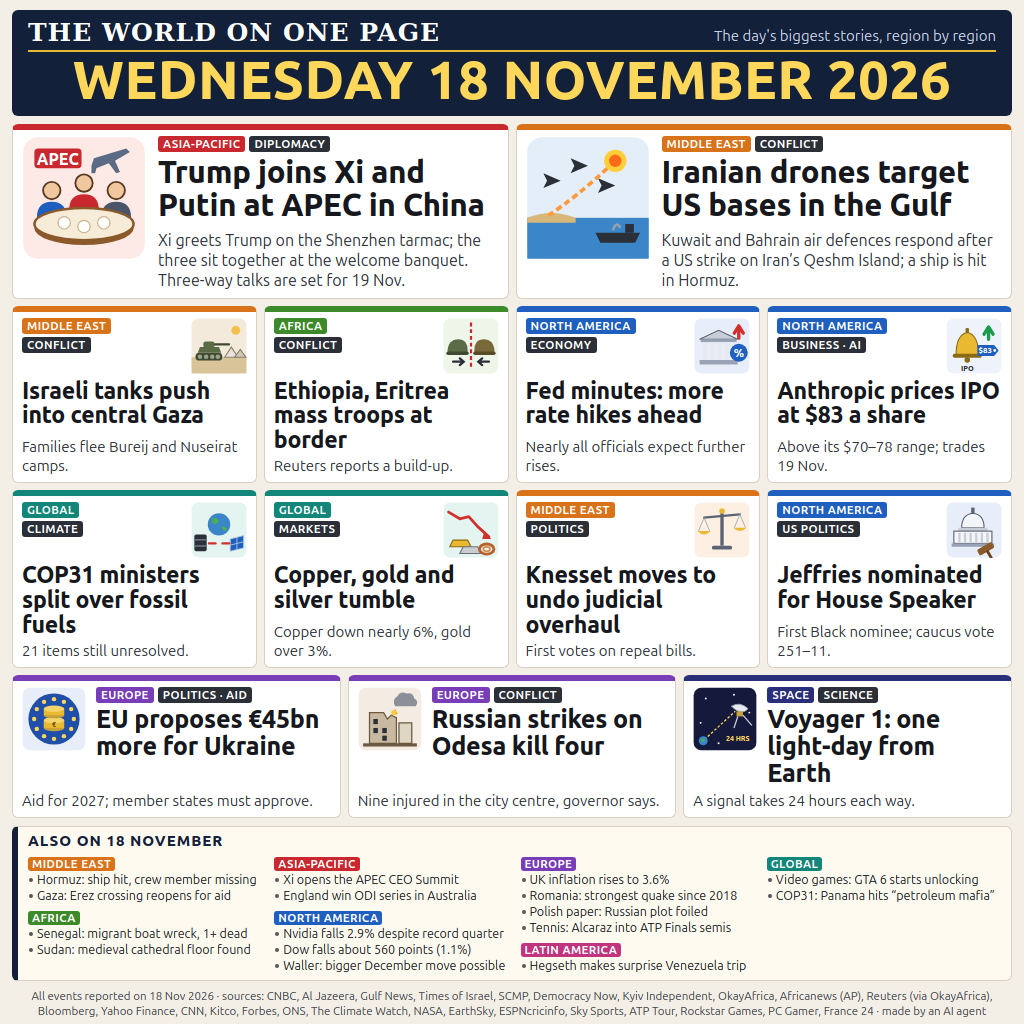
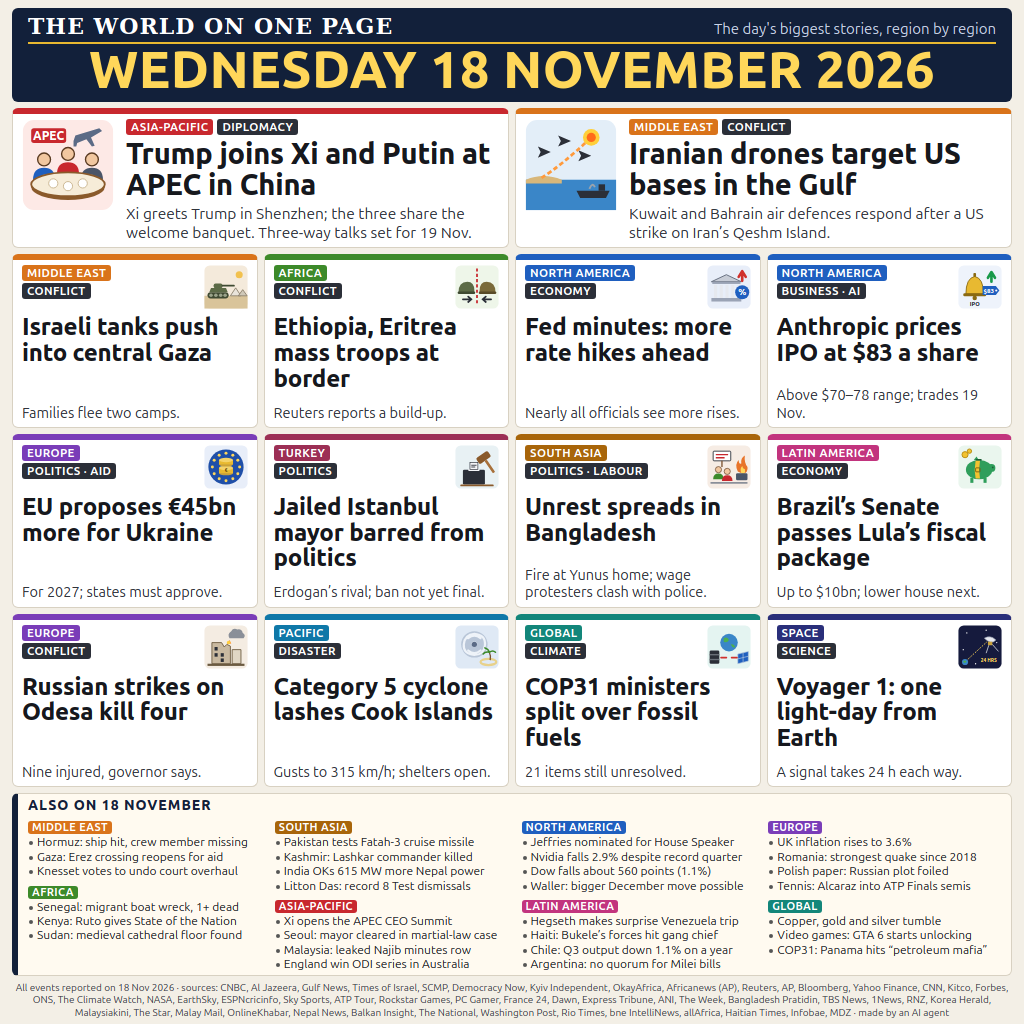
v2: 14 cards (Turkey, South Asia, Latin America, Pacific added), 29-item Also band from stories D/E

diff --git a/page/stories.js b/page/stories.js
@@ -1,7 +1,10 @@
 // Every line below is written from the operator's story files for 18 Nov 2026 (briefs/news18/stories_*.md).
 const REGION = {
   asia:   { name: 'ASIA-PACIFIC',  c: '#c8282e' },
+  sasia:  { name: 'SOUTH ASIA',    c: '#a8650a' },
+  pacific:{ name: 'PACIFIC',       c: '#0f78a8' },
   mideast:{ name: 'MIDDLE EAST',   c: '#d9731a' },
+  turkey: { name: 'TURKEY',        c: '#9c2f55' },
   namer:  { name: 'NORTH AMERICA', c: '#1f5fbf' },
   europe: { name: 'EUROPE',        c: '#7a3db8' },
   global: { name: 'GLOBAL',        c: '#13867a' },
@@ -13,62 +16,82 @@ const REGION = {
 const CARDS = [
   { lead: true, r: 'asia', f: 'DIPLOMACY', icon: 'summit',
     hl: 'Trump joins Xi and Putin at APEC in China',
-    fact: 'Xi greets Trump on the Shenzhen tarmac; the three sit together at the welcome banquet. Three-way talks are set for 19 Nov.' },
+    fact: 'Xi greets Trump in Shenzhen; the three share the welcome banquet. Three-way talks set for 19 Nov.' },
   { lead: true, r: 'mideast', f: 'CONFLICT', icon: 'drones',
     hl: 'Iranian drones target US bases in the Gulf',
-    fact: 'Kuwait and Bahrain air defences respond after a US strike on Iran\u2019s Qeshm Island; a ship is hit in Hormuz.' },
+    fact: 'Kuwait and Bahrain air defences respond after a US strike on Iran’s Qeshm Island.' },
   { r: 'mideast', f: 'CONFLICT', icon: 'tank',
     hl: 'Israeli tanks push into central Gaza',
-    fact: 'Families flee Bureij and Nuseirat camps.' },
+    fact: 'Families flee two camps.' },
   { r: 'africa', f: 'CONFLICT', icon: 'border',
     hl: 'Ethiopia, Eritrea mass troops at border',
     fact: 'Reuters reports a build-up.' },
   { r: 'namer', f: 'ECONOMY', icon: 'fed',
     hl: 'Fed minutes: more rate hikes ahead',
-    fact: 'Nearly all officials expect further rises.' },
+    fact: 'Nearly all officials see more rises.' },
   { r: 'namer', f: 'BUSINESS · AI', icon: 'ipo',
     hl: 'Anthropic prices IPO at $83 a share',
-    fact: 'Above its $70–78 range; trades 19 Nov.' },
+    fact: 'Above $70–78 range; trades 19 Nov.' },
+  { r: 'europe', f: 'POLITICS · AID', icon: 'euaid',
+    hl: 'EU proposes €45bn more for Ukraine',
+    fact: 'For 2027; states must approve.' },
+  { r: 'turkey', f: 'POLITICS', icon: 'gavel',
+    hl: 'Jailed Istanbul mayor barred from politics',
+    fact: 'Erdogan’s rival; ban not yet final.' },
+  { r: 'sasia', f: 'POLITICS · LABOUR', icon: 'protest',
+    hl: 'Unrest spreads in Bangladesh',
+    fact: 'Fire at Yunus home; wage protesters clash with police.' },
+  { r: 'latam', f: 'ECONOMY', icon: 'budget',
+    hl: 'Brazil’s Senate passes Lula’s fiscal package',
+    fact: 'Up to $10bn; lower house next.' },
+  { r: 'europe', f: 'CONFLICT', icon: 'strike',
+    hl: 'Russian strikes on Odesa kill four',
+    fact: 'Nine injured, governor says.' },
+  { r: 'pacific', f: 'DISASTER', icon: 'cyclone',
+    hl: 'Category 5 cyclone lashes Cook Islands',
+    fact: 'Gusts to 315 km/h; shelters open.' },
   { r: 'global', f: 'CLIMATE', icon: 'cop',
     hl: 'COP31 ministers split over fossil fuels',
     fact: '21 items still unresolved.' },
-  { r: 'global', f: 'MARKETS', icon: 'metals',
-    hl: 'Copper, gold and silver tumble',
-    fact: 'Copper down nearly 6%, gold over 3%.' },
-  { r: 'mideast', f: 'POLITICS', icon: 'scales',
-    hl: 'Knesset moves to undo judicial overhaul',
-    fact: 'First votes on repeal bills.' },
-  { r: 'namer', f: 'US POLITICS', icon: 'capitol',
-    hl: 'Jeffries nominated for House Speaker',
-    fact: 'First Black nominee; caucus vote 251–11.' },
-  { r: 'europe', f: 'POLITICS \u00b7 AID', icon: 'euaid', wide: true,
-    hl: 'EU proposes \u20ac45bn more for Ukraine',
-    fact: 'Aid for 2027; member states must approve.' },
-  { r: 'europe', f: 'CONFLICT', icon: 'strike', wide: true,
-    hl: 'Russian strikes on Odesa kill four',
-    fact: 'Nine injured in the city centre, governor says.' },
-  { r: 'space', f: 'SCIENCE', icon: 'voyager', wide: true,
+  { r: 'space', f: 'SCIENCE', icon: 'voyager',
     hl: 'Voyager 1: one light-day from Earth',
-    fact: 'A signal takes 24 hours each way.' },
+    fact: 'A signal takes 24 h each way.' },
 ];
 
 const ALSO = [
   { r: 'mideast', items: [
     'Hormuz: ship hit, crew member missing',
     'Gaza: Erez crossing reopens for aid',
+    'Knesset votes to undo court overhaul',
   ]},
   { r: 'africa', items: [
     'Senegal: migrant boat wreck, 1+ dead',
+    'Kenya: Ruto gives State of the Nation',
     'Sudan: medieval cathedral floor found',
+  ]},
+  { r: 'sasia', items: [
+    'Pakistan tests Fatah-3 cruise missile',
+    'Kashmir: Lashkar commander killed',
+    'India OKs 615 MW more Nepal power',
+    'Litton Das: record 8 Test dismissals',
   ]},
   { r: 'asia', items: [
     'Xi opens the APEC CEO Summit',
+    'Seoul: mayor cleared in martial-law case',
+    'Malaysia: leaked Najib minutes row',
     'England win ODI series in Australia',
   ]},
   { r: 'namer', items: [
+    'Jeffries nominated for House Speaker',
     'Nvidia falls 2.9% despite record quarter',
     'Dow falls about 560 points (1.1%)',
     'Waller: bigger December move possible',
+  ]},
+  { r: 'latam', items: [
+    'Hegseth makes surprise Venezuela trip',
+    'Haiti: Bukele’s forces hit gang chief',
+    'Chile: Q3 output down 1.1% on a year',
+    'Argentina: no quorum for Milei bills',
   ]},
   { r: 'europe', items: [
     'UK inflation rises to 3.6%',
@@ -76,13 +99,11 @@ const ALSO = [
     'Polish paper: Russian plot foiled',
     'Tennis: Alcaraz into ATP Finals semis',
   ]},
-  { r: 'latam', items: [
-    'Hegseth makes surprise Venezuela trip',
-  ]},
   { r: 'global', items: [
+    'Copper, gold and silver tumble',
     'Video games: GTA 6 starts unlocking',
-    'COP31: Panama hits \u201cpetroleum mafia\u201d',
+    'COP31: Panama hits “petroleum mafia”',
   ]},
 ];
 
-const SOURCES = 'CNBC, Al Jazeera, Gulf News, Times of Israel, SCMP, Democracy Now, Kyiv Independent, OkayAfrica, Africanews (AP), Reuters (via OkayAfrica), Bloomberg, Yahoo Finance, CNN, Kitco, Forbes, ONS, The Climate Watch, NASA, EarthSky, ESPNcricinfo, Sky Sports, ATP Tour, Rockstar Games, PC Gamer, France 24';
+const SOURCES = 'CNBC, Al Jazeera, Gulf News, Times of Israel, SCMP, Democracy Now, Kyiv Independent, OkayAfrica, Africanews (AP), Reuters, AP, Bloomberg, Yahoo Finance, CNN, Kitco, Forbes, ONS, The Climate Watch, NASA, EarthSky, ESPNcricinfo, Sky Sports, ATP Tour, Rockstar Games, PC Gamer, France 24, Dawn, Express Tribune, ANI, The Week, Bangladesh Pratidin, TBS News, 1News, RNZ, Korea Herald, Malaysiakini, The Star, Malay Mail, OnlineKhabar, Nepal News, Balkan Insight, The National, Washington Post, Rio Times, bne IntelliNews, allAfrica, Haitian Times, Infobae, MDZ';

diff --git a/page/style.css b/page/style.css
@@ -5,27 +5,27 @@ body {
   color: #16181d;
   font-family: "Ubuntu Sans", "DejaVu Sans", sans-serif;
 }
-#sheet { width: 1024px; height: 1024px; display: flex; flex-direction: column; padding: 10px 12px 6px; gap: 8px; }
+#sheet { width: 1024px; height: 1024px; display: flex; flex-direction: column; padding: 8px 12px 5px; gap: 6px; }
 
 /* masthead */
-#mast { background: #12203a; color: #fff; border-radius: 6px; padding: 8px 16px 6px; }
+#mast { background: #12203a; color: #fff; border-radius: 6px; padding: 5px 16px 4px; }
 .mast-top { display: flex; justify-content: space-between; align-items: baseline; border-bottom: 2px solid #e8b931; padding-bottom: 3px; }
-.brand { font-family: "DejaVu Serif", serif; font-weight: 700; font-size: 25px; letter-spacing: 1px; }
+.brand { font-family: "DejaVu Serif", serif; font-weight: 700; font-size: 22px; letter-spacing: 1px; }
 .mast-note { font-size: 15px; color: #c9d3e6; }
-.date { font-weight: 800; font-size: 54px; line-height: 1.08; letter-spacing: 0.5px; text-align: center; color: #ffd75a; white-space: nowrap; }
+.date { font-weight: 800; font-size: 52px; line-height: 1.04; letter-spacing: 0.5px; text-align: center; color: #ffd75a; white-space: nowrap; }
 
 /* cards */
-#cards { flex: 1; display: grid; grid-template-columns: repeat(12, 1fr); grid-template-rows: auto 1fr 1fr auto; gap: 7px; min-height: 0; }
-.card { background: #fff; border-radius: 6px; border: 1px solid #d8d1c2; border-top: 6px solid var(--c); padding: 6px 9px 7px; display: flex; flex-direction: column; overflow: hidden; }
+#cards { flex: 1; display: grid; grid-template-columns: repeat(12, 1fr); grid-template-rows: auto 1fr 1fr 1fr; gap: 6px; min-height: 0; }
+.card { background: #fff; border-radius: 6px; border: 1px solid #d8d1c2; border-top: 6px solid var(--c); padding: 5px 9px 5px; display: flex; flex-direction: column; overflow: hidden; }
 .card.lead { grid-column: span 6; flex-direction: row; gap: 12px; }
-.card.std { grid-column: span 3; display: grid; grid-template-columns: 1fr 56px; grid-template-rows: auto auto 1fr; column-gap: 6px; }
+.card.std { grid-column: span 3; display: grid; grid-template-columns: 1fr 44px; grid-template-rows: auto auto 1fr; column-gap: 6px; }
 .card.std.wide { grid-column: span 4; grid-template-columns: 64px 1fr; grid-template-rows: auto auto 1fr; column-gap: 10px; }
 .card .ic { flex: none; }
-.card.lead .ic svg { width: 124px; height: 124px; }
+.card.lead .ic svg { width: 92px; height: 92px; }
 .card.std .ic { grid-row: 1; grid-column: 2; }
-.card.std .ic svg { width: 56px; height: 56px; }
+.card.std .ic svg { width: 44px; height: 44px; }
 .card.std .tags { grid-column: 1; grid-row: 1; flex-direction: column; align-items: flex-start; }
-.card.std .tags .tag { margin-bottom: 3px; }
+.card.std .tags .tag { margin-bottom: 2px; }
 .card.std .hl { grid-column: 1 / 3; grid-row: 2; }
 .card.std .fact { grid-column: 1 / 3; grid-row: 3; }
 .card.std.wide .ic { grid-column: 1; grid-row: 1 / 3; }
@@ -37,20 +37,20 @@ body {
 .tag.f { background: #2b2f38; }
 .tags { display: flex; flex-wrap: wrap; gap: 0 4px; }
 .hl { font-weight: 800; line-height: 1.07; letter-spacing: -0.2px; }
-.card.lead .hl { font-size: 31px; margin-bottom: 4px; }
-.card.std .hl { font-size: 23px; margin-top: 1px; }
+.card.lead .hl { font-size: 29px; margin-bottom: 2px; }
+.card.std .hl { font-size: 24px; margin-top: 1px; }
 .card.std.wide .hl { font-size: 25px; }
-.fact { font-size: 15px; line-height: 1.25; color: #2f333b; margin-top: auto; padding-top: 4px; }
-.card.lead .fact { font-size: 16px; }
+.fact { font-size: 14.5px; line-height: 1.2; color: #2f333b; margin-top: auto; padding-top: 3px; }
+.card.lead .fact { font-size: 15.5px; padding-top: 2px; }
 .lead-body { display: flex; flex-direction: column; min-width: 0; }
 
 /* also band */
-#also { background: #fffaf0; border: 1px solid #d8d1c2; border-left: 6px solid #12203a; border-radius: 6px; padding: 5px 10px 6px; }
-.also-title { font-weight: 800; font-size: 15px; letter-spacing: 1px; color: #12203a; margin-bottom: 3px; }
-#also-cols { columns: 4; column-gap: 12px; }
-.grp { break-inside: avoid; margin-bottom: 3px; }
-.grp b { display: inline-block; font-size: 11.5px; color: #fff; background: var(--c); border-radius: 3px; padding: 0 4px; margin-bottom: 1px; letter-spacing: 0.4px; }
-.grp li { list-style: none; font-size: 12.5px; line-height: 1.28; padding-left: 9px; position: relative; }
+#also { background: #fffaf0; border: 1px solid #d8d1c2; border-left: 6px solid #12203a; border-radius: 6px; padding: 3px 10px 3px; }
+.also-title { font-weight: 800; font-size: 14px; letter-spacing: 1px; color: #12203a; margin-bottom: 2px; }
+#also-cols { columns: 4; column-gap: 14px; }
+.grp { break-inside: avoid; margin-bottom: 2px; }
+.grp b { display: inline-block; font-size: 11px; color: #fff; background: var(--c); border-radius: 3px; padding: 0 4px; margin-bottom: 1px; letter-spacing: 0.4px; }
+.grp li { list-style: none; font-size: 12px; line-height: 1.2; padding-left: 9px; position: relative; }
 .grp li::before { content: ""; position: absolute; left: 1px; top: 6px; width: 4px; height: 4px; background: #555; border-radius: 50%; }
 
-#foot { font-size: 11.5px; color: #3c4048; text-align: center; line-height: 1.25; }
+#foot { font-size: 10px; color: #3c4048; text-align: center; line-height: 1.25; }

diff --git a/page/icons.js b/page/icons.js
@@ -160,4 +160,49 @@ const ICONS = {
     <rect x="68" y="38" width="9" height="12" rx="2" fill="#2b2f38"/>
     ${UP(84, 18, '#d0312d')}
   `, '#f1eaf9'),
+  // a judge's gavel coming down on a ballot box
+  gavel: S(`
+    <rect x="18" y="56" width="50" height="34" rx="3" fill="#2b2f38"/>
+    <rect x="30" y="54" width="26" height="5" rx="2" fill="#f4f5f8"/>
+    <rect x="34" y="40" width="18" height="16" fill="#f4f5f8" stroke="#2b2f38" stroke-width="1.5"/>
+    <path d="M37 46 L49 46 M37 50 L46 50" stroke="#2b2f38" stroke-width="2"/>
+    <g transform="rotate(-35 66 30)">
+      <rect x="50" y="20" width="32" height="16" rx="4" fill="#8a5a2b"/>
+      <rect x="63" y="36" width="6" height="34" rx="2" fill="#a8703a"/>
+    </g>
+    <path d="M14 92 L86 92" stroke="#8a5a2b" stroke-width="4" stroke-linecap="round"/>
+  `, '#e8f1f4'),
+  // a cyclone spiral beside a small ring atoll with a palm
+  cyclone: S(`
+    <circle cx="44" cy="44" r="30" fill="#b9c6d8"/>
+    <path d="M44 44 m-4 0 a4 4 0 1 1 8 0 M44 20 Q70 22 68 46 Q66 68 44 68 M44 68 Q18 66 20 44 Q22 22 44 20 M30 30 Q44 18 58 30 M58 58 Q44 70 30 58" stroke="#eef3f9" stroke-width="5" fill="none" stroke-linecap="round"/>
+    <circle cx="44" cy="44" r="6" fill="#5b6b86"/>
+    <ellipse cx="76" cy="84" rx="18" ry="7" fill="none" stroke="#e8d18a" stroke-width="5"/>
+    <path d="M80 80 Q82 70 78 62" stroke="#7a5230" stroke-width="3" fill="none"/>
+    <path d="M78 62 q-10 -2 -14 4 M78 62 q8 -6 14 0 M78 62 q-2 -8 -10 -10" stroke="#3d8a2a" stroke-width="3.5" fill="none" stroke-linecap="round"/>
+  `, '#dfe9f5'),
+  // a piggy bank with a belt pulled tight, coins
+  budget: S(`
+    <ellipse cx="48" cy="56" rx="30" ry="22" fill="#2f9e5b"/>
+    <circle cx="76" cy="52" r="9" fill="#2f9e5b"/>
+    <circle cx="79" cy="51" r="2" fill="#1b5e36"/>
+    <path d="M36 34 L42 26 L48 35" fill="#2f9e5b"/>
+    <rect x="28" y="74" width="7" height="12" fill="#2f9e5b"/><rect x="58" y="74" width="7" height="12" fill="#2f9e5b"/>
+    <rect x="40" y="32" width="14" height="4" rx="2" fill="#1b5e36"/>
+    <path d="M40 36 Q36 56 40 76 L50 76 Q46 56 50 36 Z" fill="#f2c230"/>
+    <rect x="40" y="52" width="10" height="9" rx="1" fill="none" stroke="#7a5a10" stroke-width="2"/>
+    <circle cx="16" cy="22" r="7" fill="#f2c230" stroke="#b58a12" stroke-width="2"/>
+    <circle cx="26" cy="14" r="5" fill="#f2c230" stroke="#b58a12" stroke-width="2"/>
+  `, '#eaf6ee'),
+  // protesters with a placard, a small fire behind them
+  protest: S(`
+    <path d="M70 60 Q62 44 72 34 Q72 44 78 42 Q76 30 86 24 Q84 40 92 50 Q94 62 82 66 Z" fill="#e8742a"/>
+    <path d="M78 64 Q74 54 80 48 Q82 56 86 54 Q88 62 84 66 Z" fill="#ffd75a"/>
+    <rect x="66" y="64" width="26" height="16" rx="3" fill="#4a5568"/>
+    <rect x="14" y="14" width="40" height="22" rx="2" fill="#fff" stroke="#2b2f38" stroke-width="2"/>
+    <path d="M20 22 L48 22 M20 29 L40 29" stroke="#c8282e" stroke-width="3"/>
+    <path d="M34 36 L34 50" stroke="#7a5230" stroke-width="3"/>
+    ${PERSON(26, 56, '#3d8a2a')}${PERSON(46, 60, '#c8282e')}
+    <path d="M8 86 L92 86" stroke="#8a8f99" stroke-width="4"/>
+  `, '#f6ece4'),
 };
